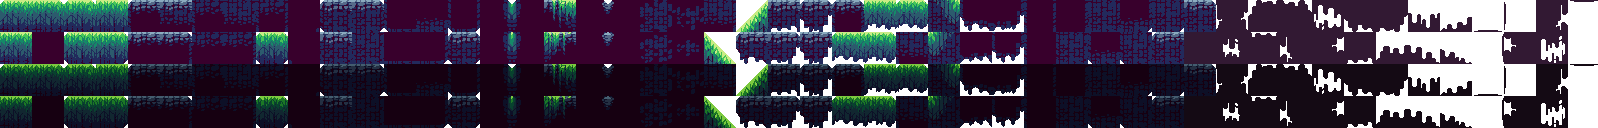
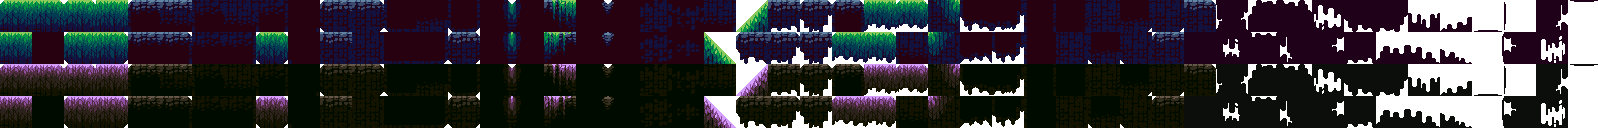
feat: change HUD design

diff --git a/client/src/controller/helpers/BlurPostFX.ts b/client/src/controller/helpers/BlurPostFX.ts
@@ -1,0 +1,85 @@
+import * as Phaser from 'phaser';
+
+const fragShader = `
+#define SHADER_NAME BLUR_FS
+
+precision mediump float;
+
+//"in" attributes from our vertex shader
+varying vec2 outTexCoord;
+
+//declare uniforms
+uniform sampler2D uMainSampler;
+uniform float uResolution;
+uniform float radius;
+uniform vec2 dir;
+
+void main()
+{
+    //this will be our RGBA sum
+    vec4 sum = vec4(0.0);
+
+    //our original texcoord for this fragment
+    vec2 tc = outTexCoord;
+
+    //the amount to blur, i.e. how far off center to sample from
+    //1.0 -> blur by one pixel
+    //2.0 -> blur by two pixels, etc.
+    float blur = radius/uResolution;
+
+    //the direction of our blur
+    //(1.0, 0.0) -> x-axis blur
+    //(0.0, 1.0) -> y-axis blur
+    float hstep = dir.x;
+    float vstep = dir.y;
+
+    //apply blurring, using a 9-tap filter with predefined gaussian weights",
+
+    sum += texture2D(uMainSampler, vec2(tc.x - 4.0*blur*hstep, tc.y - 4.0*blur*vstep)) * 0.0162162162;
+    sum += texture2D(uMainSampler, vec2(tc.x - 3.0*blur*hstep, tc.y - 3.0*blur*vstep)) * 0.0540540541;
+    sum += texture2D(uMainSampler, vec2(tc.x - 2.0*blur*hstep, tc.y - 2.0*blur*vstep)) * 0.1216216216;
+    sum += texture2D(uMainSampler, vec2(tc.x - 1.0*blur*hstep, tc.y - 1.0*blur*vstep)) * 0.1945945946;
+
+    sum += texture2D(uMainSampler, vec2(tc.x, tc.y)) * 0.2270270270;
+
+    sum += texture2D(uMainSampler, vec2(tc.x + 1.0*blur*hstep, tc.y + 1.0*blur*vstep)) * 0.1945945946;
+    sum += texture2D(uMainSampler, vec2(tc.x + 2.0*blur*hstep, tc.y + 2.0*blur*vstep)) * 0.1216216216;
+    sum += texture2D(uMainSampler, vec2(tc.x + 3.0*blur*hstep, tc.y + 3.0*blur*vstep)) * 0.0540540541;
+    sum += texture2D(uMainSampler, vec2(tc.x + 4.0*blur*hstep, tc.y + 4.0*blur*vstep)) * 0.0162162162;
+
+    //discard alpha for our simple demo,return
+    gl_FragColor =  vec4(sum.rgb, 1.0);
+}
+`;
+
+interface UniformPipelineConfig extends Phaser.Types.Renderer.WebGL.WebGLPipelineConfig {
+    uniforms?: String[];
+}
+
+export default class BlurPostFX extends Phaser.Renderer.WebGL.WebGLPipeline
+{
+    constructor (game: Phaser.Game)
+    {
+        const BlurConfig: UniformPipelineConfig = {
+            game,
+            renderTarget: true,
+            fragShader,
+            uniforms: [
+                'uProjectionMatrix',
+                'uMainSampler',
+                'uResolution',
+                'radius',
+                'dir'
+            ]
+        };
+        super(BlurConfig);
+    }
+
+    onPreRender () 
+    {
+        const r = Math.abs(2 * Math.sin(this.game.loop.time * 10))
+        this.set1f('uResolution', this.renderer.width);
+        this.set1f('radius', r);
+        this.set2f('dir', 1.0, 1.0);
+    }
+}

diff --git a/client/src/controller/scenes/sceneBase.ts b/client/src/controller/scenes/sceneBase.ts
@@ -49,16 +49,27 @@ class SceneBase extends Phaser.Scene {
   }
 
   createHUD() {
+    const livesHUD = this.add.image(700, 16, 'livesHUD').setOrigin(0, 0);
+    const rectangleHUD = this.add.image(16, 16, 'rectangleHUD').setOrigin(0, 0);
+
     this.scoreText = this.add.text(16, 16, `Score: ${this.score}`).setPadding(10).setStyle({
       fontSize: '28px',
-      backgroundColor: '#073454',
-      fill: '#3afefd',
+      stroke: '#e9642b',
+      strokeThickness: 1,
+      // backgroundColor: '#073454',
+      fill: '#e9642b',
     });
-    this.livesText = this.add.text(300, 16, `Lives: ${this.player.getHPValue()}`).setPadding(10).setStyle({
+    this.livesText = this.add.text(748, 16, `${this.player.getHPValue()}`).setPadding(10).setStyle({
       fontSize: '28px',
-      backgroundColor: '#073454',
-      fill: '#3afefd',
+      stroke: '#e9642b',
+      strokeThickness: 1,
+      // backgroundColor: '#073454',
+      fill: '#e9642b',
     });
+    livesHUD.scrollFactorX = 0;
+    livesHUD.scrollFactorY = 0;
+    rectangleHUD.scrollFactorX = 0;
+    rectangleHUD.scrollFactorY = 0;
     this.scoreText.scrollFactorX = 0;
     this.scoreText.scrollFactorY = 0;
     this.livesText.scrollFactorX = 0;

diff --git a/client/src/controller/scenes/non-playable/optionsScene.ts b/client/src/controller/scenes/non-playable/optionsScene.ts
@@ -1,8 +1,10 @@
 import { GameObjects } from 'phaser';
 import RexUIPlugin from 'phaser3-rex-plugins/templates/ui/ui-plugin';
+
 import { Slider } from 'phaser3-rex-plugins/templates/ui/ui-components';
 import NonPlayableBaseScene from './nonPlayableBaseScene';
 import { ISharedState } from '../../../types/interfaces';
+
 
 import { soundConfigMusic, soundConfigEffects, soundConfigMaster } from '../../audio/audioConfigs';
 
@@ -35,6 +37,8 @@ class OptionsScene extends NonPlayableBaseScene {
 
   create() {
     super.create();
+
+    
     const xAxis = this.getMiddlePositionX();
     const yAxis = this.getMiddlePositionY();
     const volumeMusic = soundConfigMusic.volume!;

diff --git a/client/src/controller/scenes/loading.ts b/client/src/controller/scenes/loading.ts
@@ -97,6 +97,8 @@ class LoadingScene extends Phaser.Scene {
     this.load.image('movingPlatform2', 'spritesheets/objects/movingPlatform2.png');
     this.load.image('flowerPickup', 'spritesheets/objects/flowerPickup.png');
     this.load.image('healthCanPickup', 'spritesheets/objects/healthCan.png');
+    this.load.image('livesHUD', 'spritesheets/objects/livesHUD.png');
+    this.load.image('rectangleHUD', 'spritesheets/objects/rectangleHUD.png');
 
 
     this.load.image('infoSign', 'spritesheets/objects/infoSign.png');

diff --git a/client/src/controller/scenes/non-playable/pauseMenuScene.ts b/client/src/controller/scenes/non-playable/pauseMenuScene.ts
@@ -1,6 +1,7 @@
 import { IMenuItem, ISharedState } from '../../../types/interfaces';
 import NonPlayableBaseScene from './nonPlayableBaseScene';
 
+
 class PauseMenuScene extends NonPlayableBaseScene {
   private menu: IMenuItem[] = [
     {
@@ -34,6 +35,9 @@ class PauseMenuScene extends NonPlayableBaseScene {
   //   this.previousScene = data.key;
   //   this.menu[0].sceneKey = this.previousScene;
   // }
+
+  preload() {
+  }
 
   create() {
     super.create();
